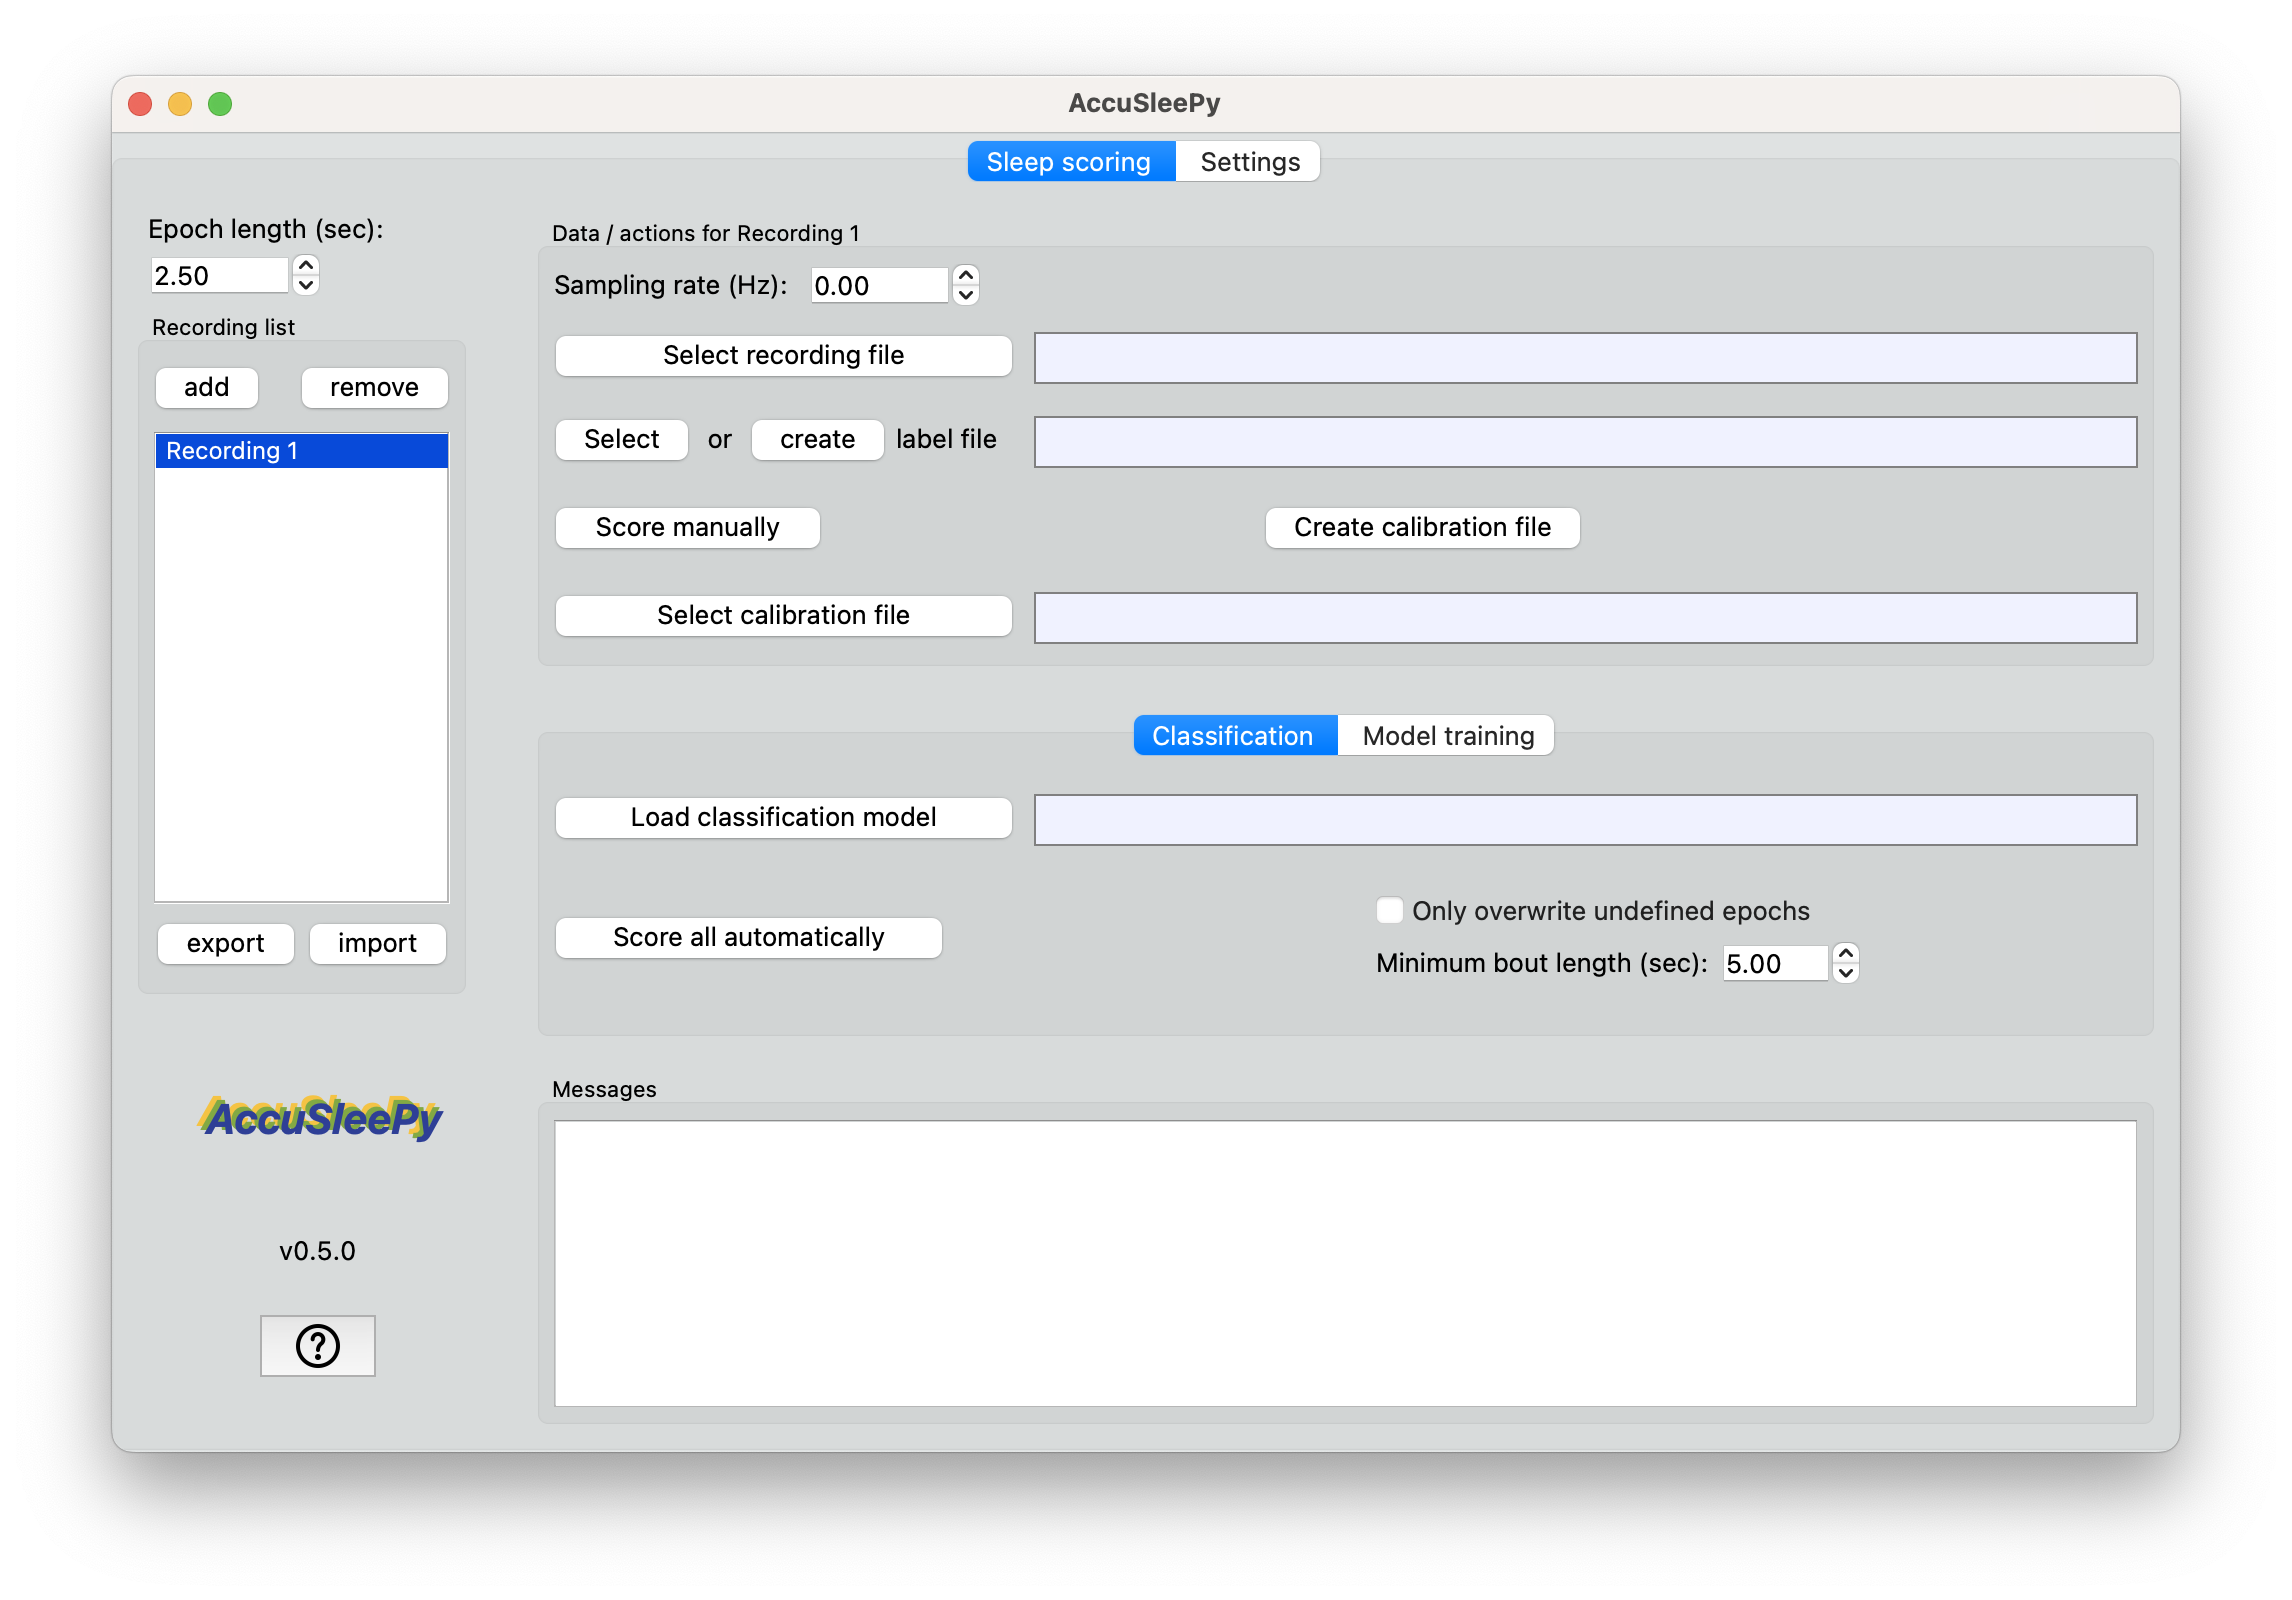
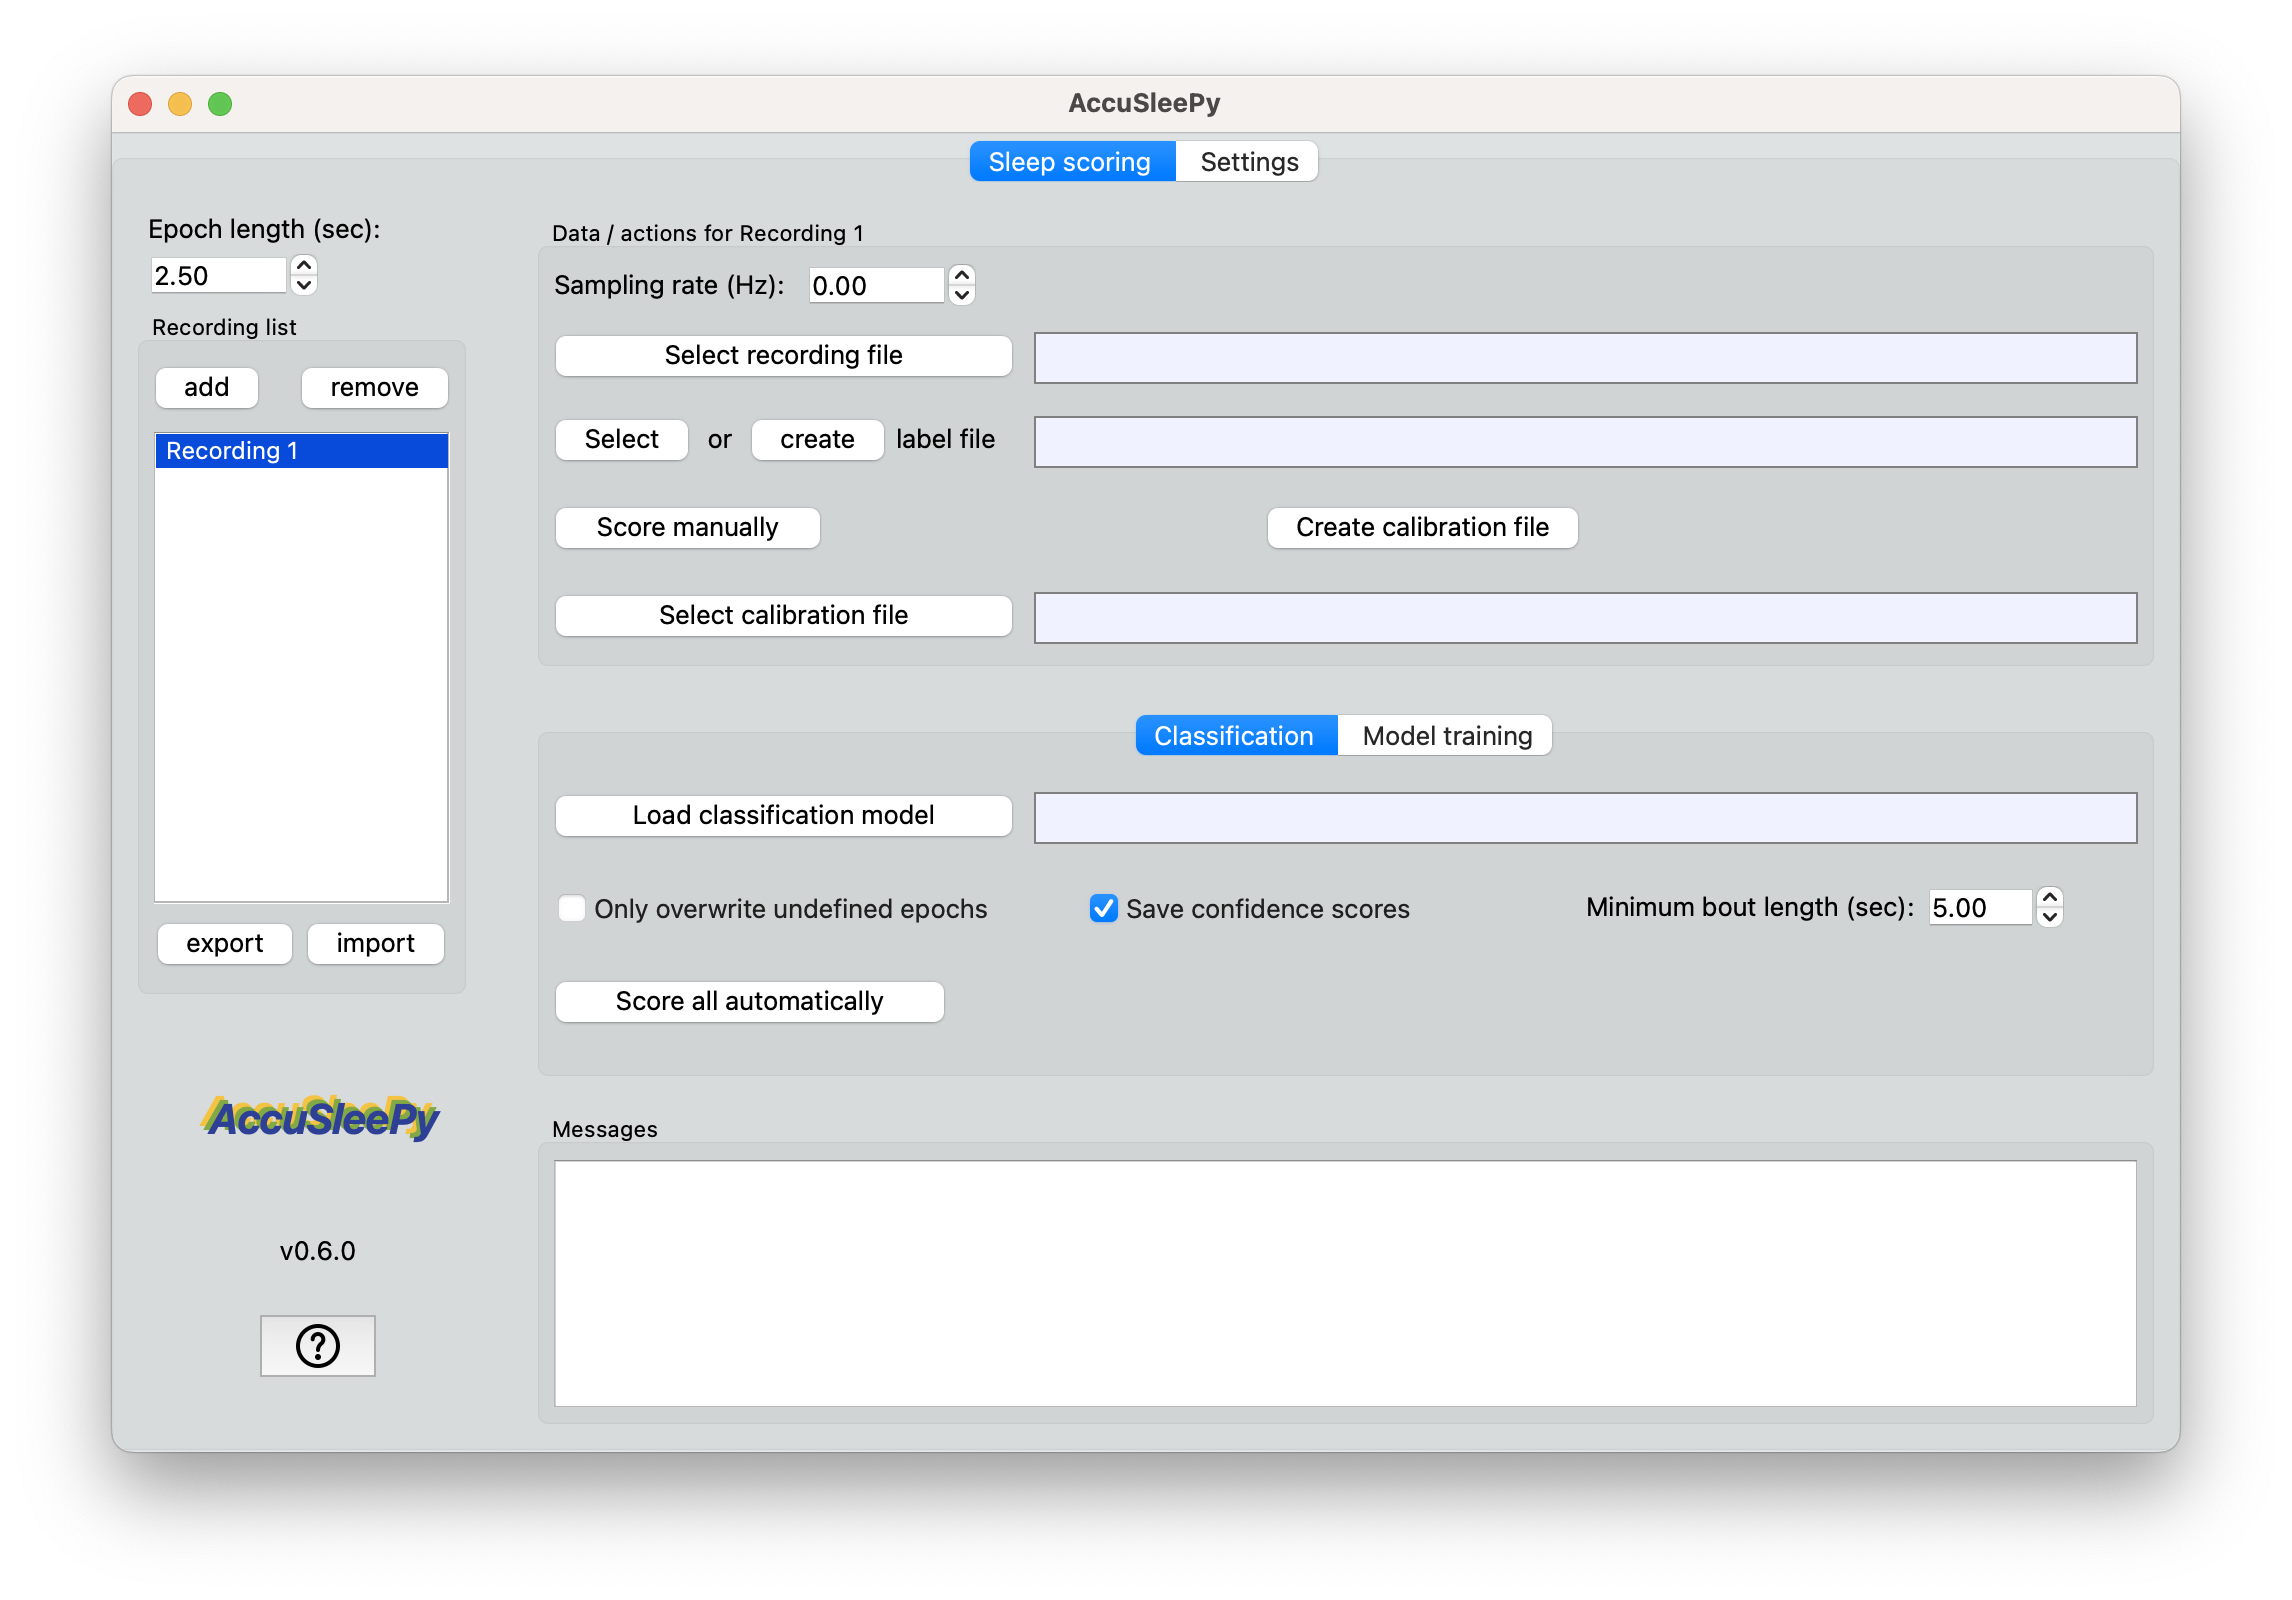
update main user manual, readme screenshot

diff --git a/accusleepy/gui/text/main_guide.md b/accusleepy/gui/text/main_guide.md
@@ -45,12 +45,14 @@ To select a file in the primary interface, you can either use the
 associated button, or drag/drop the file into the empty box adjacent
 to the button.
 - Recording file: a .parquet or .csv file containing one
-    column of EEG  data and one column of EMG data.
-    The column names must be eeg and emg.
-- Label file: a .csv file with one column titled brain_state
+    column of EEG data and one column of EMG data.
+    The column names must be **eeg** and **emg**.
+- Label file: a .csv file with one column titled **brain_state**
     with entries that are either the undefined brain state (by default, this is -1)
     or one of the digits in your brain state configuration.
     By default, these are 1-3 where REM = 1, wake = 2, NREM = 3.
+    Optionally, there can be a second column named **confidence_score**
+    containing classification confidence scores between 0 and 1.
 - Calibration data file: required for automated scoring. See Section 4
     for details. These have .csv format.
 - Trained classification model: required for automated scoring. See
@@ -135,7 +137,12 @@ To train a new model on your own data:
     where the images used to train the model will be saved. A
     new directory with an automatically generated name will be
     created inside the directory you choose.
-7. Click "Train classification model" and enter a
+7. Choose whether to calibrate the model. This process uses part
+    of the training data to make the model's confidence scores
+    more accurately reflect the probability that the output
+    labels are accurate. If using calibration, choose what percent
+    of the training data to set aside for calibration.
+8. Click "Train classification model" and enter a
     filename for the trained model. Training can take some time.
     The console will display progress updates.
 
@@ -153,10 +160,11 @@ Instructions for automatic scoring using this interface are below.
 4. If you wish to preserve any existing labels in the label file, and
     only overwrite undefined epochs, check the box labeled
     "Only overwrite undefined epochs".
-5. Set the minimum bout length, in seconds. A typical value could be 5.
+5. Choose whether to save confidence scores to the label files.
+6. Set the minimum bout length, in seconds. A typical value could be 5.
     Following automatic labeling, any brain state bout shorter than this
     duration will be reassigned to the surrounding state (if the states
     on either side of the bout are the same).
-6. Click "Score all automatically" to score all recordings in the
+7. Click "Score all automatically" to score all recordings in the
     recording list. To inspect the results, select a recording
     in the list and click "Score manually".
